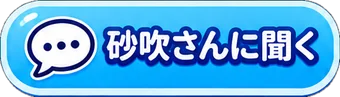
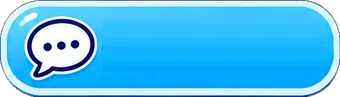
砂吹さん→潮見さん、ハーモニカ→オカリナ(音・見た目・セリフ・ボタン画像の名前)
Claude-Session: https://claude.ai/code/session_01SLSQhv5yW68EmdsJ622XGc

Changed region(s): [[0.2941, 0.2474, 0.9412, 0.7113]]

diff --git a/town3d/src/apps/fishing/app.js b/town3d/src/apps/fishing/app.js
@@ -10,8 +10,8 @@ import a_p_mode from './art/p_mode.webp';
 import a_p_fx from './art/p_fx.webp';
 import a_p_help from './art/p_help.webp';
 const ART = { b_en: a_b_en, b_free: a_b_free, b_vs: a_b_vs, b_dex: a_b_dex, b_ask: a_b_ask, b_shop: a_b_shop, p_mode: a_p_mode, p_fx: a_p_fx, p_help: a_p_help };
-// 釣り(砂吹さんの池)。町のアプリ(mount(el, ctx) → {unmount})。
-//   のんびり釣り / 釣り勝負(2画面:砂吹さん・友だちの挑戦状・前回の自分) / 図鑑 / 道具屋
+// 釣り(潮見さんの池)。町のアプリ(mount(el, ctx) → {unmount})。
+//   のんびり釣り / 釣り勝負(2画面:潮見さん・友だちの挑戦状・前回の自分) / 図鑑 / 道具屋
 import { confirmPay } from '../../ui/pay.js';
 import { weather, wxStrip } from '../../game/weather.js';
 import { social } from '../../game/social.js';
@@ -100,7 +100,10 @@ const CSS = `
 .fz .mwx{flex:none;display:flex;align-items:center;gap:6px;background:rgba(255,255,255,.9);border-radius:999px;padding:5px 12px;box-shadow:0 2px 6px #0002;font-size:13px;font-weight:900;color:#3a4a7a}.fz .mwx small{font-size:12px;font-weight:700;color:#6d6a8c}
 .fz .mwal{flex:none;display:flex;flex-direction:row;gap:6px;align-items:center}.fz .mwal span{background:rgba(255,255,255,.9);border-radius:999px;padding:3px 9px;font-size:12px;font-weight:900;color:#3a4a7a;box-shadow:0 2px 6px #0002;white-space:nowrap}
 .fz .mgrid{width:min(100%,560px);display:grid;grid-template-columns:1fr 1fr;gap:8px}
-.fz .ib{border:0;background:none;padding:0;cursor:pointer;display:block;-webkit-tap-highlight-color:transparent}.fz .ib img{display:block;width:100%;height:auto;pointer-events:none}.fz .ib:active{transform:scale(.97)}
+.fz .ib{border:0;background:none;padding:0;cursor:pointer;display:block;position:relative;container-type:inline-size;-webkit-tap-highlight-color:transparent}.fz .ib img{display:block;width:100%;height:auto;pointer-events:none}.fz .ib:active{transform:scale(.97)}
+.fz .ib .tx{position:absolute;pointer-events:none;white-space:nowrap;font-weight:900}
+.fz .ib .txa{left:30%;top:50%;transform:translateY(-50%);font-size:9.2cqw;color:#fff;-webkit-text-stroke:5px #1d2f7a;paint-order:stroke fill;letter-spacing:.02em}
+.fz .ib .txv{left:0;right:0;bottom:9%;text-align:center;font-size:6.6cqw;color:#6a3b10;-webkit-text-stroke:3px #fff3c2;paint-order:stroke fill}
 .fz .mpills{display:grid;grid-template-columns:repeat(3,1fr);gap:6px;width:min(100%,560px)}
 .fz .pl{border:0;padding:0;cursor:pointer;aspect-ratio:220/77;background:center/100% 100% no-repeat;position:relative;-webkit-tap-highlight-color:transparent}.fz .pl span{position:absolute;left:36%;right:6%;top:50%;transform:translateY(-50%);font-size:11px;font-weight:900;color:#3a4a7a;white-space:nowrap}.fz .pl:active{transform:scale(.97)}
 .fz .mb{width:min(300px,86%);display:flex;align-items:center;gap:10px;justify-content:flex-start;font-size:17px;padding:14px 18px;border-radius:18px}
@@ -160,7 +163,7 @@ export const fishingApp = {
     const wxRefresh = () => { baseCond.luck = social.luckToday(); if (P.rain == null) baseCond.rain = weather.isRain(); const d = new Date(); if (P.hour == null) baseCond.hour = d.getHours() + d.getMinutes() / 60; };   // 開いたまま天気・時間が変わっても、次の画面から反映
     const sfx = createSfx(ctx.audio && ctx.audio.sfx != null ? ctx.audio.sfx : 0.7);
     const root = document.createElement('div'); root.className = 'fz'; el.appendChild(root);
-    ctx.setTitle('砂吹さんの池');
+    ctx.setTitle('潮見さんの池');
 
     // ---- 保存 ----
     const own = Object.assign({ rod: ['bamboo'], reel: ['basic'], line: ['nylon'], bait: ['worm'], eye: ['none'] }, st.get('own') || {}); own.hook = ['s', 'm', 'l']; if (!own.eye) own.eye = ['none'];
@@ -209,7 +212,7 @@ export const fishingApp = {
 
     // ================= メニュー =================
     function menu() {
-      clear(); screen = 'menu'; ctx.setTitle('砂吹さんの釣り堀'); head(); wxRefresh();
+      clear(); screen = 'menu'; ctx.setTitle('潮見さんの釣り堀'); head(); wxRefresh();
       const cv = document.createElement('canvas'); cv.style.cssText = 'top:0;height:100%'; root.appendChild(cv);
       const view = createView(cv, baseCond); view.resize();
       const ro = new ResizeObserver(() => view.resize()); ro.observe(cv); cleanup.push(() => ro.disconnect());
@@ -224,13 +227,13 @@ export const fishingApp = {
             <div class="mwal"><span>🪙 <b data-bind="coins">${ctx.wallet.get().toLocaleString('ja-JP')}</b></span>${ctx.gems ? `<span>💎 <b data-bind="gems">${ctx.gems.get().toLocaleString('ja-JP')}</b></span>` : ''}</div>
           </div>
         </div>
-        <div class="say3"><img class="sp" src="${portrait('suna') || ''}" alt="砂吹さん"><div class="say">砂吹さん「${esc(pickSay())}」</div></div>
+        <div class="say3"><img class="sp" src="${portrait('suna') || ''}" alt="潮見さん"><div class="say">潮見さん「${esc(pickSay())}」</div></div>
         <div class="mgrid">
           <button class="ib" data-m="en" aria-label="英語の釣り堀"><img src="${ART.b_en}" alt=""></button>
           <button class="ib" data-m="free" aria-label="のんびり釣る"><img src="${ART.b_free}" alt=""></button>
-          <button class="ib" data-m="vs" aria-label="釣り勝負"><img src="${ART.b_vs}" alt=""></button>
+          <button class="ib" data-m="vs" aria-label="釣り勝負"><img src="${ART.b_vs}" alt=""><span class="tx txv">潮見さん・友だちと対戦</span></button>
           <button class="ib" data-m="dex" aria-label="アクアリウム"><img src="${ART.b_dex}" alt=""></button>
-          <button class="ib" data-m="ask" aria-label="砂吹さんに聞く"><img src="${ART.b_ask}" alt=""></button>
+          <button class="ib" data-m="ask" aria-label="潮見さんに聞く"><img src="${ART.b_ask}" alt=""><span class="tx txa">潮見さんに聞く</span></button>
           <button class="ib" data-m="shop" aria-label="道具屋"><img src="${ART.b_shop}" alt=""></button>
         </div>
         <div class="mpills">
@@ -528,7 +531,7 @@ export const fishingApp = {
         if (!sp) return;
         bubble(`${sp.name}${sp.kind === 'fish' ? ' ' + d.size + 'cm' : ''}!` + (vs.bot ? ' ' + (sp.r >= 3 ? SUNA_SAY.big[0] : SUNA_SAY.catch[Math.floor(Math.random() * 4)]) : ''));
       }
-      function bubble(text) { bubEl?.remove(); bubEl = document.createElement('div'); bubEl.className = 'bub'; bubEl.textContent = (vs.bot ? '砂吹さん: ' : vs.name + ': ') + text; root.appendChild(bubEl); const b = bubEl; setTimeout(() => { if (bubEl === b) { b.remove(); bubEl = null; } }, 2200); }
+      function bubble(text) { bubEl?.remove(); bubEl = document.createElement('div'); bubEl.className = 'bub'; bubEl.textContent = (vs.bot ? '潮見さん: ' : vs.name + ': ') + text; root.appendChild(bubEl); const b = bubEl; setTimeout(() => { if (bubEl === b) { b.remove(); bubEl = null; } }, 2200); }
 
       // ---- 演出 ----
       let hitStop = 0, hitBig = false, leap = null, vign = null;
@@ -581,7 +584,7 @@ export const fishingApp = {
           <div style="font-family:Georgia,serif;font-style:italic;color:#8d7f9e;font-size:13px">${esc(sp.en)}</div>
           ${sp.kind === 'fish' ? `<div style="font-size:24px;font-weight:900">${d.size}<small style="font-size:13px">cm</small>${info.best && !info.isNew ? ' <span style="font-size:12px;color:#e0556b">記録更新!</span>' : ''}</div>` : ''}
           ${info.extra}${info.wanted ? `<div style="font-weight:900;font-size:13px">🪙 +${info.coins}${info.coins < info.wanted ? ' <small style="color:#8d7f9e">(きょうの上限)</small>' : ''}</div>` : ''}`;
-        const r = await showScreen({ actors: [{ look: ctx.player?.look, pose: 'auto', sp, size: d.size }], bg: cv, infoHtml: head, sayText: `砂吹さん「${esc(sp.say || 'Nice!')}」`, caption: [`${sp.name}${sp.kind === 'fish' ? ' ' + d.size + 'cm' : ''}`, `ほしみや池 ${new Date().toLocaleDateString()}`], confettiOn: info.isNew || info.best || sp.r >= 4, buttons: [['つづける', '', () => closeCard()]] });
+        const r = await showScreen({ actors: [{ look: ctx.player?.look, pose: 'auto', sp, size: d.size }], bg: cv, infoHtml: head, sayText: `潮見さん「${esc(sp.say || 'Nice!')}」`, caption: [`${sp.name}${sp.kind === 'fish' ? ' ' + d.size + 'cm' : ''}`, `ほしみや池 ${new Date().toLocaleDateString()}`], confettiOn: info.isNew || info.best || sp.r >= 4, buttons: [['つづける', '', () => closeCard()]] });
         if (!r) { card = null; showCard(d, info); } else card = { remove: r.close };
       }
       function showCard(d, info) {
@@ -593,12 +596,12 @@ export const fishingApp = {
           <div class="sc" style="text-align:center;padding-top:0"><div class="art" style="margin:4px auto;width:260px;max-width:100%"></div>
           ${sp.kind === 'fish' ? `<div style="font-size:28px;font-weight:900">${d.size}<small style="font-size:14px">cm</small>${info.best && !info.isNew ? ' <span style="font-size:13px;color:#e0556b">記録更新!</span>' : ''}</div><div style="font-size:12px;color:#8d7f9e">自己ベスト ${info.r.best}cm ・ ${info.r.n}匹目</div>` : ''}
           ${info.extra}
-          <div class="say" style="margin:10px auto 0">砂吹さん「${esc(sp.say || 'Nice!')}」</div>
+          <div class="say" style="margin:10px auto 0">潮見さん「${esc(sp.say || 'Nice!')}」</div>
           ${info.wanted ? `<div style="margin-top:8px;font-weight:900">🪙 +${info.coins}${info.coins < info.wanted ? ' <small style="color:#8d7f9e">(きょうの上限)</small>' : ''}</div>` : ''}
           </div><div style="padding:8px 16px 18px;text-align:center;display:flex;gap:8px;justify-content:center;flex-wrap:wrap">${en && sp.kind === 'fish' ? `<button class="btn sub" data-k ${EN.keepRoom() ? '' : 'disabled'}>🐠 ${EN.tankRoom() ? '水槽に入れる' : EN.keepRoom() ? '図鑑の枠に入れる' : '水槽も枠もいっぱい'}</button>` : ''}<button class="btn" data-x>つづける</button></div>`, true);
         card.querySelector('.art').appendChild(a); a.style.cssText = 'width:100%;height:auto;position:static';
         card.querySelector('[data-x]').onclick = closeCard;
-        const kb = card.querySelector('[data-k]'); if (kb) kb.onclick = () => { const r = EN.keepFish(sp, d.size); if (!r) return; sfx.play('splash'); closeCard(); toast(r === 'first' ? '🐠 砂吹さんが水槽をくれた!<br><small style="font-size:12px">家の持ち物にも入ったよ。えさは英語で作る</small>' : r === 'box' ? '📖 図鑑の枠に入れた!' : '🐠 水槽に入れた!', 1800); };
+        const kb = card.querySelector('[data-k]'); if (kb) kb.onclick = () => { const r = EN.keepFish(sp, d.size); if (!r) return; sfx.play('splash'); closeCard(); toast(r === 'first' ? '🐠 潮見さんが水槽をくれた!<br><small style="font-size:12px">家の持ち物にも入ったよ。えさは英語で作る</small>' : r === 'box' ? '📖 図鑑の枠に入れた!' : '🐠 水槽に入れた!', 1800); };
         if (info.isNew || info.best || sp.r >= 4) confetti(card);
       }
       function showLost(d) { toast(LOST_JP[d.reason] + `<br><small style="font-size:13px">${BYID[d.id] && BYID[d.id].r >= 3 ? 'おしい! 大物だった…' : ''}</small>`, 1500); setTimeout(() => { if (E.S.ph === 'lost') E.ack(); }, 1400); }
@@ -669,7 +672,7 @@ export const fishingApp = {
           }
           const R = RULES[vs.rule], ms = scoreOf(E.S.score, vs.rule), os = scoreOf(bot ? oppE.S.score : oppScore, vs.rule);
           const oph = bot ? oppE.S.ph : (replayAt(vs.ghost, t) || {}).ph;
-          vsBar.querySelector('.on').textContent = `${vs.bot ? '砂吹さん' : vs.name} ${os}${R.unit}${oph === 'fight' ? ' 🎣ファイト中!' : ''}`;
+          vsBar.querySelector('.on').textContent = `${vs.bot ? '潮見さん' : vs.name} ${os}${R.unit}${oph === 'fight' ? ' 🎣ファイト中!' : ''}`;
           vsBar.querySelector('.me').textContent = `あなた ${ms}${R.unit}`;
           vsBar.querySelector('.tm').textContent = countT > 0 ? fmtT(vs.dur) : fmtT(vs.dur - startT);
         } else $('[data-b="info"]').textContent = `🐟${stats.today}`;
@@ -772,7 +775,7 @@ export const fishingApp = {
       showScreen({
         actors: [{ look: ctx.player?.look, pose: 'auto', sp: top.sp, size: top.size }], bg: null,
         infoHtml: `<div style="font-size:22px;font-weight:900">🎉 きょうの成果</div><div style="font-size:13px;font-weight:800">${list}</div>`,
-        sayText: '砂吹さん「What a great day!」',
+        sayText: '潮見さん「What a great day!」',
         caption: [`${top.sp.name} ${top.size}cm`, `ほしみや池 ${new Date().toLocaleDateString()}`], confettiOn: true,
         buttons: [['帰る', '', done]],
       }).then(r => { if (!r) done(); });
@@ -798,7 +801,7 @@ export const fishingApp = {
       return { el, close };
     }
 
-    // ================= 砂吹さんに聞く =================
+    // ================= 潮見さんに聞く =================
     let onEqChange = null;
     function ask(tab) {
       askScreen({ sheet, dex, cond: baseCond, eq, own, st, sfx, skill, tab, onSet: (c, bb) => {
@@ -904,8 +907,8 @@ export const fishingApp = {
           <div class="lbl">モード(ふたりとも同じ)</div><div class="seg"><button class="tab ${mode === 'real' ? 'on' : ''}" data-mo="real">🔵 ほんかく</button><button class="tab ${mode === 'easy' ? 'on' : ''}" data-mo="easy">🟢 かんたん</button></div>
           <div class="lbl">演出</div><div class="seg"><button class="tab ${fx === 'high' ? 'on' : ''}" data-fx="high">🎆 派手</button><button class="tab ${fx === 'calm' ? 'on' : ''}" data-fx="calm">🍵 おとなしめ</button></div>
           <div class="lbl">あいて</div><div class="seg" style="flex-direction:column">
-            <button class="tab ${opp === 'easy' ? 'on' : ''}" data-o="easy">🧢 砂吹さん(のんびり)</button>
-            <button class="tab ${opp === 'hard' ? 'on' : ''}" data-o="hard">🔥 砂吹さん(ほんき)</button>
+            <button class="tab ${opp === 'easy' ? 'on' : ''}" data-o="easy">🧢 潮見さん(のんびり)</button>
+            <button class="tab ${opp === 'hard' ? 'on' : ''}" data-o="hard">🔥 潮見さん(ほんき)</button>
             <button class="tab ${opp === 'code' ? 'on' : ''}" data-o="code">✉ 友だちの挑戦状をうける</button>
             ${ghost ? `<button class="tab ${opp === 'self' ? 'on' : ''}" data-o="self">👤 前回の自分(${RULES[ghost.r].name}・${ghost.du / 60}分)</button>` : ''}
           </div>
@@ -945,11 +948,11 @@ export const fishingApp = {
       const mb = best(catches), ob = best(oppC), oppLook = vs.bot ? 'suna' : vs.name === '前回の自分' ? ctx.player?.look : 'ren';
       const actor = (look, b, win) => ({ look, pose: win === false ? 'sad' : 'auto', sp: b ? BYID[b.id] : null, size: b ? b.size : 0 });
       const head = res === 'win' ? '🏆 かち!' : res === 'lose' ? 'まけ…' : 'ひきわけ';
-      const R = RULES[vs.rule], oname = vs.bot ? '砂吹さん' : vs.name;
+      const R = RULES[vs.rule], oname = vs.bot ? '潮見さん' : vs.name;
       const r = await showScreen({
         actors: [actor(ctx.player?.look, mb, res === 'lose' ? false : true), actor(oppLook, ob, res === 'win' ? false : true)], bg: null,
         infoHtml: `<div style="font-size:24px;font-weight:900">${head}</div><div style="font-weight:900">あなた ${o.me}${R.unit}　vs　${esc(oname)} ${o.op}${R.unit}</div><div style="font-size:12px;color:#8d7f9e">${R.name}・${vs.dur / 60}分 ${MODE_BADGE(vs.easy ? 'easy' : 'real')}</div>`,
-        sayText: vs.bot ? `砂吹さん「${res === 'win' ? 'You got me. Well done.' : res === 'lose' ? 'Better luck next time.' : 'A tie! Good game.'}」` : '',
+        sayText: vs.bot ? `潮見さん「${res === 'win' ? 'You got me. Well done.' : res === 'lose' ? 'Better luck next time.' : 'A tie! Good game.'}」` : '',
         caption: [`釣り勝負 ${head}`, `${R.name} ${o.me}${R.unit} vs ${o.op}${R.unit}  ほしみや池`], confettiOn: res === 'win',
         buttons: [['結果を見る', '', () => vsResult(o)]],
       });
@@ -962,11 +965,11 @@ export const fishingApp = {
       const list = catches.length ? catches.map(c => { const sp = BYID[c.id]; return `${sp.emoji || '🐟'} ${esc(sp.name)}${sp.kind === 'fish' ? ` ${c.size}cm` : ''} <small style="color:#8d7f9e">${c.pts}pt</small>`; }).join('<br>') : '<span style="color:#8d7f9e">なし</span>';
       const s = sheet(`<div class="ph" style="justify-content:center"><h2 style="font-size:28px">${head}</h2></div>
         <div class="sc" style="text-align:center">
-          <div style="display:flex;justify-content:center;gap:16px;align-items:center;font-weight:900"><div>あなた<br><span style="font-size:32px">${me}</span>${R.unit}</div><div style="font-size:20px">vs</div><div>${vs.bot ? '砂吹さん' : esc(vs.name)}<br><span style="font-size:32px">${op}</span>${R.unit}</div></div>
+          <div style="display:flex;justify-content:center;gap:16px;align-items:center;font-weight:900"><div>あなた<br><span style="font-size:32px">${me}</span>${R.unit}</div><div style="font-size:20px">vs</div><div>${vs.bot ? '潮見さん' : esc(vs.name)}<br><span style="font-size:32px">${op}</span>${R.unit}</div></div>
           <p style="font-size:12px;color:#8d7f9e">${R.name}・${vs.dur / 60}分</p>
           <div style="background:#fff;border-radius:12px;padding:8px;text-align:left;font-size:13px;line-height:1.7">${list}</div>
           ${coins ? `<p style="font-weight:900">🪙 +${coins}</p>` : ''}
-          ${vs.bot ? `<div class="say" style="margin:6px auto">砂吹さん「${res === 'win' ? 'You got me. Well done.' : res === 'lose' ? 'Better luck next time.' : 'A tie! Good game.'}」</div>` : ''}
+          ${vs.bot ? `<div class="say" style="margin:6px auto">潮見さん「${res === 'win' ? 'You got me. Well done.' : res === 'lose' ? 'Better luck next time.' : 'A tie! Good game.'}」</div>` : ''}
           <div class="code" hidden><p style="font-size:12px;margin:6px 0">この文字をぜんぶコピーして友だちに送ってね(友だちは「釣り勝負 → 友だちの挑戦状をうける」にはりつけ)</p><textarea rows="4" readonly></textarea><div style="display:flex;gap:8px;justify-content:center;margin-top:6px"><button class="btn sub" data-copy>コピー</button>${navigator.share ? '<button class="btn sub" data-share>送る</button>' : ''}</div></div>
         </div>
         <div style="display:flex;gap:8px;padding:8px 12px 16px;justify-content:center;flex-wrap:wrap"><button class="btn sub" data-m>メニュー</button><button class="btn gold" data-c>✉ 挑戦状をつくる</button><button class="btn" data-a>もういちど</button></div>`, true);

diff --git a/town3d/src/main.js b/town3d/src/main.js
@@ -265,7 +265,7 @@ export function mount(container, opt = {}) {
     if (lunaOut) text = ['たまには外の空気を吸わないとね。星も、昼は休んでいるのよ。', 'あら、こんなところで会うなんて。…これも星の導きかしら。', '夕方には館にもどるわ。占いはそれからね。'][Math.floor(Math.random() * 3)];
     if (r.def.companion && r.follow) text = (r.def.id === 'sora' ? ['ん? どうした?', 'なに?', 'おう、どうした?'] : ['なになに?', 'どうしたの?', 'ん? よんだ?'])[Math.floor(Math.random() * 3)];
     soc.onTalk(r);
-    const choices = (r.def.menu || []).filter(m => (!m.season || m.season === seasons.season) && soc.menuOk(m) && !(lunaOut && m.app === 'fortune')).map(m => ({ label: m.act === 'follow' && r.follow ? 'ここでバイバイ' : m.label, fn: () => { if (m.act) return doAct(r, m); openApp(m.app, m.params); if (m.app === 'fishing') { const off = bus.on('app:close', () => { off(); setTimeout(() => { if (!appHost.current && !hud.busy && started) talkTo(r); }, 450); }); } } }));   // 釣りから出たら、砂吹さんとの会話にもどる
+    const choices = (r.def.menu || []).filter(m => (!m.season || m.season === seasons.season) && soc.menuOk(m) && !(lunaOut && m.app === 'fortune')).map(m => ({ label: m.act === 'follow' && r.follow ? 'ここでバイバイ' : m.label, fn: () => { if (m.act) return doAct(r, m); openApp(m.app, m.params); if (m.app === 'fishing') { const off = bus.on('app:close', () => { off(); setTimeout(() => { if (!appHost.current && !hud.busy && started) talkTo(r); }, 450); }); } } }));   // 釣りから出たら、潮見さんとの会話にもどる
     if (r.def.id === 'sora' && r.follow) choices.unshift({ label: ai.ready ? 'おしゃべりする' : 'AIでおしゃべり(設定)', fn: () => { if (ai.ready) freeChat(r, text); else openAiSetup({ hud, ai, onDone: () => freeChat(r, text) }); } });
     choices.push(...soc.choices(r));
     if (r.def.id !== 'sora') choices.push({ label: ai.ready ? 'おしゃべりする' : 'AIでおしゃべり(設定)', fn: () => { r.talking = true; talkingTo = r; if (ai.ready) startChat(r, text); else openAiSetup({ hud, ai, onDone: () => startChat(r, text) }); } });   // キー設定の画面を出している間も、住人はその場にいる
@@ -383,7 +383,7 @@ export function mount(container, opt = {}) {
       }
     });
   }
-  // メニューの「act」:大喜利・格言・ハーモニカ(アプリを開かない、住人ならではのあそび)
+  // メニューの「act」:大喜利・格言・オカリナ(アプリを開かない、住人ならではのあそび)
   function doAct(r, m) {
     if (m.act === 'consult' || m.act === 'soranote') { r.talking = true; talkingTo = r; input.clear(); soraNote(r); return; }
     if (m.act === 'follow') { hanaFollow(r, !r.follow); return; }
@@ -503,7 +503,7 @@ export function mount(container, opt = {}) {
   const spotOf = id => city.interact.find(i => i.app === id || i.id === id);
   // where:連れて行く場所 / go:着いたらすること
   const PLAYSPOTS = [
-    { k: 'fishing', n: '釣り', season: 'summer', where: () => ({ x: 46, z: 21 }), go: () => openApp('fishing', {}), ask: '最近、釣りしてないね。砂吹さんの池、行ってみる?' },
+    { k: 'fishing', n: '釣り', season: 'summer', where: () => ({ x: 46, z: 21 }), go: () => openApp('fishing', {}), ask: '最近、釣りしてないね。潮見さんの池、行ってみる?' },
     { k: 'golf', n: 'ミニゴルフ', season: 'spring', where: () => spotOf('board'), go: () => sport.start('golf'), ask: '今日のゴルフのコース、もう見た? やりに行こうよ!' },
     { k: 'frisbee', n: 'フリスビー', season: 'autumn', where: () => spotOf('board'), go: () => sport.start('frisbee'), ask: 'ねえ、フリスビーしに行かない? 掲示板にコースが出てるよ' },
     { k: 'chunkcards', n: 'カード', where: () => spotOf('chunkcards'), go: () => openApp('chunkcards', {}), ask: 'カフェでカード勝負、最近してないよね。行ってみる?' },
@@ -559,15 +559,15 @@ export function mount(container, opt = {}) {
   }
   const HANA_HINTS = {
     spring: ['春と秋は、掲示板にミニゴルフのコースが貼り出されるんだって。毎日ちがうコースなの!'],
-    summer: ['夏は砂吹さんの池で釣りができるよ。夕方と朝は、よく釣れるんだって!', '魚影が見えても、真上に落とすと逃げちゃうんだって。少し先に落とすといいらしいよ'],
+    summer: ['夏は潮見さんの池で釣りができるよ。夕方と朝は、よく釣れるんだって!', '魚影が見えても、真上に落とすと逃げちゃうんだって。少し先に落とすといいらしいよ'],
     autumn: ['秋は掲示板からフリスビーに出られるよ。風を読むのがコツなんだって'],
     winter: ['雪玉は長押しすると大きくなるよ! 雪だるまも作れるの', '広場で雪合戦できるって知ってた?'],
     any: ['そら君に聞くと、英語の使い方をノートにまとめてくれるよ', '家のテレビで、チャンクボックスのゲームが遊べるんだよ', 'カフェでミイさんとカード勝負できるよ。ミイさん、ああ見えて強いの', '会話の英語をタップすると、ことばノートに入れられるんだって', '神社のおみくじ、毎日ひけるよ'],
   };
-  const SORA_HINTS = { any: ['この町、歩いてるだけで楽しいよな', '腹へったな…カフェ寄ってく?', 'ゲーセンのぷにチャンク、けっこうハマるんだよ', '夕方の空、いい色じゃん'], winter: ['雪合戦なら負けないよ?'], summer: ['夏は池で釣りだよな。砂吹さん、たまに大物あげてる'] };
+  const SORA_HINTS = { any: ['この町、歩いてるだけで楽しいよな', '腹へったな…カフェ寄ってく?', 'ゲーセンのぷにチャンク、けっこうハマるんだよ', '夕方の空、いい色じゃん'], winter: ['雪合戦なら負けないよ?'], summer: ['夏は池で釣りだよな。潮見さん、たまに大物あげてる'] };
   const PLACE_LINES = {
     hana: [['広場', 'ここ、待ち合わせによく使うんだ〜'], ['カフェ', 'いいにおい…何か飲みたくなっちゃう'], ['公園', 'ここのベンチ、すわると落ちつくよね'], ['神社', 'しーん…ってしてて好きなんだ'], ['図書館', 'しずかにしなきゃね(小声)'], ['学校', 'なつかしい感じするね'], ['ゲームセンター', 'ちょっと遊んでいかない?'], ['ショップ', 'かわいいの売ってるかな?'], ['池', 'アヒルいるかな〜'], ['家', 'ここがあなたの家? いいなぁ']],
-    sora: [['広場', '噴水の音、落ちつくよな'], ['カフェ', 'ここのケーキ、うまいんだよ'], ['公園', 'ベンチでぼーっとするの、好きなんだ'], ['神社', 'おみくじ、大吉出たことある?'], ['図書館', 'ここ、よく来るんだ'], ['学校', '懐かしいなぁ'], ['ゲームセンター', '一回だけ遊んでいく?'], ['池', '砂吹さん、今日も釣ってるかな']],
+    sora: [['広場', '噴水の音、落ちつくよな'], ['カフェ', 'ここのケーキ、うまいんだよ'], ['公園', 'ベンチでぼーっとするの、好きなんだ'], ['神社', 'おみくじ、大吉出たことある?'], ['図書館', 'ここ、よく来るんだ'], ['学校', '懐かしいなぁ'], ['ゲームセンター', '一回だけ遊んでいく?'], ['池', '潮見さん、今日も釣ってるかな']],
   };
   // 手をつなぐ:プレイヤーの左にならぶ。ときどき少しおくれたり、前へ引っぱったりする(手ははなさない)
   const holdM = new THREE.Vector3();
@@ -674,7 +674,7 @@ export function mount(container, opt = {}) {
     });
   }
   // ---- 誕生日 ----
-  //   その日(この端末の日付で、登録した月日):住人がみんな1回ずつ「おめでとう」/砂吹さんがハーモニカ/そら君が花束/はなちゃんがピアノ
+  //   その日(この端末の日付で、登録した月日):住人がみんな1回ずつ「おめでとう」/潮見さんがオカリナ/そら君が花束/はなちゃんがピアノ
   //   夜:とくべつな花火+記念写真(アルバムの特別枠・無料)。その月は家のゲーム機が全部無料。翌月はサブスク半額のお知らせ
   let bdayTest = /[?&]bday=1/.test(location.search) ? 'day' : '';
   const bdayMD = () => { const b = settings.birth; if (!b) return null; const [, m, d] = b.split('-').map(Number); return m && d ? { m, d } : null; };
@@ -709,7 +709,7 @@ export function mount(container, opt = {}) {
         { label: 'あとでね', fn: () => { s.hanaT = Date.now() + 120000; bsave(s); } }] });
       bdayCool = 3; return;
     }
-    // 砂吹さん:ハーモニカ
+    // 潮見さん:オカリナ
     const su = R('suna'); if (su && !s.suna && near(su)) { s.suna = 1; bsave(s); audio.unlock(); const t = audio.play('harmonica', 'bday') || { sec: 10 }; su.harpT = t.sec; hud.say('npc:suna', '♪ Happy Birthday ♪', Math.min(12, t.sec)); setTimeout(() => hud.say('npc:suna', `おめでとさん、${nm}。いい一年をな`, 4), t.sec * 1000); bdayCool = t.sec; return; }
     // ほかの住人:1回ずつ「おめでとう」
     for (const r of residents.list) {

diff --git a/town3d/src/core/audio.js b/town3d/src/core/audio.js
@@ -17,17 +17,21 @@ export function createAudio() {
     g.gain.setValueAtTime(0, t); g.gain.linearRampToValueAtTime(gain * vol.sfx, t + 0.01); g.gain.exponentialRampToValueAtTime(0.0001, t + dur);
     o.connect(g).connect(master); o.start(t); o.stop(t + dur + 0.02);
   }
-  // ハーモニカのような、のばす音(ゆれ=ビブラートつき)
+  // オカリナのような、まるくてやさしい音(ほぼ正弦波＋かすかな息の音。ゆれは、音がのびてから少しだけかかる)
   function reed(f, dur, delay = 0) {
     const a = ctx(); if (!a || vol.sfx <= 0) return;
-    const t = a.currentTime + delay, o = a.createOscillator(), o2 = a.createOscillator(), g = a.createGain(), lp = a.createBiquadFilter(), lfo = a.createOscillator(), lg = a.createGain();
-    o.type = 'sawtooth'; o2.type = 'triangle'; o.frequency.value = f; o2.frequency.value = f * 1.005;
-    lp.type = 'lowpass'; lp.frequency.value = 2200;
-    lfo.frequency.value = 5.2; lg.gain.value = f * 0.007; lfo.connect(lg); lg.connect(o.frequency); lg.connect(o2.frequency);
-    const v = 0.05 * vol.sfx;
-    g.gain.setValueAtTime(0, t); g.gain.linearRampToValueAtTime(v, t + 0.07); g.gain.setValueAtTime(v * 0.85, Math.max(t + 0.08, t + dur - 0.12)); g.gain.linearRampToValueAtTime(0, t + dur);
-    o.connect(lp); o2.connect(lp); lp.connect(g).connect(master);
+    const t = a.currentTime + delay, o = a.createOscillator(), o2 = a.createOscillator(), g2 = a.createGain(), g = a.createGain(), lp = a.createBiquadFilter(), lfo = a.createOscillator(), lg = a.createGain();
+    o.type = 'sine'; o2.type = 'sine'; o.frequency.value = f; o2.frequency.value = f * 2; g2.gain.value = 0.10;
+    lp.type = 'lowpass'; lp.frequency.value = 2600;
+    lfo.frequency.value = 4.4; lg.gain.setValueAtTime(0, t); lg.gain.linearRampToValueAtTime(f * 0.0035, t + Math.min(0.35, dur * 0.6)); lfo.connect(lg); lg.connect(o.frequency); lg.connect(o2.frequency);
+    const v = 0.085 * vol.sfx;
+    g.gain.setValueAtTime(0, t); g.gain.linearRampToValueAtTime(v, t + 0.06); g.gain.setValueAtTime(v * 0.9, Math.max(t + 0.07, t + dur - 0.14)); g.gain.linearRampToValueAtTime(0, t + dur);
+    o.connect(lp); o2.connect(g2).connect(lp); lp.connect(g).connect(master);
     [o, o2, lfo].forEach(x => { x.start(t); x.stop(t + dur + 0.05); });
+    // 吹きはじめの、かすかな息の音
+    const n = Math.floor(a.sampleRate * 0.12), buf = a.createBuffer(1, n, a.sampleRate), d = buf.getChannelData(0); for (let i = 0; i < n; i++) d[i] = (Math.random() * 2 - 1) * (1 - i / n);
+    const ns = a.createBufferSource(), bp = a.createBiquadFilter(), ng = a.createGain(); ns.buffer = buf; bp.type = 'bandpass'; bp.frequency.value = Math.min(6000, f * 2.5); bp.Q.value = 1.2; ng.gain.value = 0.35 * v;
+    ns.connect(bp).connect(ng).connect(master); ns.start(t);
   }
   // ピアノのような音(打ってすぐ減る。倍音を少し)
   function piano(f, dur, delay = 0, v = 1) {
@@ -38,7 +42,7 @@ export function createAudio() {
     lp.connect(g).connect(master);
     [[1, 'triangle', 1], [2, 'sine', 0.35], [3, 'sine', 0.12]].forEach(([m, ty, k]) => { const o = a.createOscillator(), og = a.createGain(); o.type = ty; o.frequency.value = f * m; og.gain.value = k; o.connect(og).connect(lp); o.start(t); o.stop(t + len + 0.05); });
   }
-  // ハーモニカのオリジナル曲(ペンタトニック)。[音の高さHz, 長さ(拍)] 0 は休み。朝・昼・夕・晩と、たまに吹くとくべつな曲の5曲
+  // オカリナのオリジナル曲(ペンタトニック)。[音の高さHz, 長さ(拍)] 0 は休み。朝・昼・夕・晩と、たまに吹くとくべつな曲の5曲
   const TUNES = {
     morning: { name: '朝のうた', beat: 0.30, notes: [[784, 1], [880, 1], [1047, 2], [880, 1], [1047, 1], [1175, 2], [1047, 1], [880, 1], [784, 2], [659, 1], [784, 1], [880, 3], [0, 1], [1047, 1], [1175, 1], [1319, 2], [1175, 1], [1047, 1], [880, 2], [784, 1], [880, 1], [1047, 4]] },
     noon: { name: 'ひるさがりのうた', beat: 0.34, notes: [[659, 1.5], [784, 0.5], [880, 2], [784, 1], [659, 1], [587, 2], [523, 1], [587, 1], [659, 3], [0, 1], [784, 1.5], [880, 0.5], [1047, 2], [880, 1], [784, 1], [659, 2], [587, 1], [523, 1], [587, 4]] },

diff --git a/town3d/src/game/npc.js b/town3d/src/game/npc.js
@@ -107,14 +107,14 @@ export const RESIDENTS = [
     menu: [{ label: '格言をひとつ聞く', act: 'quote' }],
   },
   {
-    // 砂吹さん:さすらいの旅人。池のほとりで釣りをしている。頼むとハーモニカを吹いてくれる
-    id: 'suna', tips: ["「Any luck?」は釣りの定番の声かけ。『釣れた?』ってことさ", "「Nothing's biting.」は『ぜんぜん食いつかない』。釣れない日のぼやきだな", "「Take it easy.」は『のんびりいこう』。ぼくの生き方みたいなものさ", "「Go with the flow.」は『流れにまかせて』。川と同じだね", "「catch of the day」は『今日の釣果』。とれたら自慢できる"], yomi: 'すなぶきさん', name: '砂吹さん', role: 'さすらいの旅人',
-    persona: '自由なさすらいの旅人。ひょうひょうとしていて、口数は少なめでおだやか。「〜さ」「〜だな」と話す。持ち物はハーモニカと釣り竿だけ。池でアヒルをながめながら釣りをするのが好きで、釣れなくても気にしない。',
+    // 潮見さん:さすらいの旅人。池のほとりで釣りをしている。頼むとオカリナを吹いてくれる
+    id: 'suna', tips: ["「Any luck?」は釣りの定番の声かけ。『釣れた?』ってことさ", "「Nothing's biting.」は『ぜんぜん食いつかない』。釣れない日のぼやきだな", "「Take it easy.」は『のんびりいこう』。ぼくの生き方みたいなものさ", "「Go with the flow.」は『流れにまかせて』。川と同じだね", "「catch of the day」は『今日の釣果』。とれたら自慢できる"], yomi: 'すなぶきさん', name: '潮見さん', role: 'さすらいの旅人',
+    persona: '自由なさすらいの旅人。ひょうひょうとしていて、口数は少なめでおだやか。「〜さ」「〜だな」と話す。持ち物はオカリナと釣り竿だけ。池でアヒルをながめながら釣りをするのが好きで、釣れなくても気にしない。',
     look: { skin: 0xf2c9ac, hair: 0x8a5a44, style: 'short', top: 0x7f9a52, bottom: 0x8a6b4a, shoes: 0x5a4a3a, acc: 'snuf', accColor: 0x7a8f4a },
     angler: { spot: [46, 22.5], face: [46, 18] },
     schedule: [[5, 'pond'], [17, 'park2'], [19, 'plaza2'], [21, 'pond']],
     lines: { morning: ['おはよう。朝の池は、水がきらきらしてるのさ。', 'まだ一匹も釣れてないけど、いい朝だな。'], day: ['釣れなくていいんだ。のんびりしに来てるだけさ。', 'あのアヒル、ぼくのことを見張ってるみたいだな。'], evening: ['夕方は風がやさしいな。そろそろ歩きたくなる。', '今日はどこまで行こうかな。気のむくままさ。'], night: ['夜の池は静かだな。星が水に映ってるのさ。'] },
-    menu: [{ label: '🎣 釣りへ行く', app: 'fishing' }, { label: 'ハーモニカをお願いする', act: 'harmonica' }],   // 入ると釣りのタイトル画面(英語・のんびり・勝負・図鑑…)
+    menu: [{ label: '🎣 釣りへ行く', app: 'fishing' }, { label: 'オカリナをお願いする', act: 'harmonica' }],   // 入ると釣りのタイトル画面(英語・のんびり・勝負・図鑑…)
   },
   {
     // 占い師ルナ:神社の境内の「占いの館」の前にいる。10コインで、住人の好物・飾りのレシピ・かくれもののありかなどを教えてくれる
@@ -292,7 +292,7 @@ export function createResidents(scene, graph, getHour, collide = null) {
           else if (speed > 0.3) r.ch.root.rotation.y = angleLerp(r.ch.root.rotation.y, Math.atan2(r.vx, r.vz), Math.min(1, dt * 4));
         }
         r.speed = speed;
-        // ポーズ:ハーモニカを吹いている間 / 池のそばで釣り竿を構えているとき
+        // ポーズ:オカリナを吹いている間 / 池のそばで釣り竿を構えているとき
         if (r.harpT > 0) r.harpT -= dt;
         if (r.def.angler) {
           const a = r.def.angler;

diff --git a/town3d/src/world/character.js b/town3d/src/world/character.js
@@ -84,7 +84,7 @@ export function makeCharacter(look, { scale = 1 } = {}) {
   if (look.acc === 'ribbon') { [-1, 1].forEach(s => { const r = add(geo('rib', () => new THREE.ConeGeometry(0.07, 0.14, 4)), M(look.accColor), 0.14 + s * 0.07, 0.2, 0.02, head); r.rotation.z = s * Math.PI / 2; }); add(sph(0.035, 8), M(look.accColor), 0.14, 0.2, 0.02, head); }
   if (look.acc === 'cap') { const c = add(geo('hat', () => new THREE.SphereGeometry(0.25, 24, 12, 0, Math.PI * 2, 0, 1.3)), toon(look.accColor, { side: THREE.DoubleSide }), 0, 0.06, -0.01, head); const v = add(cyl(0.16, 0.16, 0.025, 14), M(look.accColor), 0, 0.12, 0.2, head); v.scale.z = 0.7; }
   if (look.acc === 'tophat') { add(cyl(0.15, 0.15, 0.22, 14), M(look.accColor), 0, 0.3, 0, head); add(cyl(0.24, 0.24, 0.025, 16), M(look.accColor), 0, 0.2, 0, head); add(cyl(0.152, 0.152, 0.04, 14), M(0xff9aa2), 0, 0.23, 0, head); }
-  // 砂吹さんの帽子:つばの広い、くたっとした帽子に羽
+  // 潮見さんの帽子:つばの広い、くたっとした帽子に羽
   if (look.acc === 'snuf') {
     const hm = toon(look.accColor, { side: THREE.DoubleSide });
     add(cyl(0.31, 0.31, 0.02, 20), hm, 0, 0.17, 0, head);
@@ -118,7 +118,7 @@ export function makeCharacter(look, { scale = 1 } = {}) {
     if (outG.length) { const ol = new THREE.Mesh(mergeGeometries(outG.map(g => g.clone()), false), outlineMat); grp.add(ol); }
   };
   [body, head, ...legs, ...arms].forEach(bakeGroup);
-  // 砂吹さんの持ち物:釣り竿とハーモニカ(動かすので、合体させずにあとから付ける)
+  // 潮見さんの持ち物:釣り竿とオカリナ(動かすので、合体させずにあとから付ける)
   const snuf = look.acc === 'snuf';
   let fishG = null, harp = null;
   if (snuf) {
@@ -128,7 +128,7 @@ export function makeCharacter(look, { scale = 1 } = {}) {
     const lineG = new THREE.Group(); lineG.position.set(0, -1.24, 1.4); lineG.rotation.x = -2.24; fishG.add(lineG);
     add(cyl(0.004, 0.004, 1.3, 4), M(0xf5f5f5), 0, 0, 0, lineG);
     add(sph(0.04, 8), M(0xff6b6b), 0, -1.64, 0.89, fishG);
-    harp = add(geo('harp', () => new THREE.BoxGeometry(0.2, 0.045, 0.05)), M(0xc8ccd4), 0, -0.1, 0.235, head); harp.visible = false;
+    harp = add(geo('ocarina', () => { const g = new THREE.SphereGeometry(0.075, 12, 8); g.scale(1.35, 0.78, 0.85); return g; }), M(0xd49a6a), 0, -0.1, 0.235, head); harp.visible = false;
   }
   { const ol = new THREE.Mesh(torso.geometry, outlineMat); ol.position.copy(torso.position); ol.scale.copy(torso.scale); torso.userData.ol = ol; body.add(ol); }
   for (const e of eyes) { /* 目はまばたきするので別メッシュのまま */ }

diff --git a/town3d/src/apps/fishing/ask.js b/town3d/src/apps/fishing/ask.js
@@ -1,4 +1,4 @@
-// 砂吹さんに聞く:狙いの魚(いい組み合わせ)・いまのおすすめ・腕のアドバイス
+// 潮見さんに聞く:狙いの魚(いい組み合わせ)・いまのおすすめ・腕のアドバイス
 import { FISH, AREAS, TANA, GEAR, gearById, BAIT_EN, SPEED_JP, SPEED_EN, RARITY, RARITY_COL } from './data.js';
 import { weightOf, timeOf } from './engine.js';
 import { artCanvas } from './art.js';
@@ -36,12 +36,12 @@ export function askScreen(o) {
   const day = new Date().toDateString();
   const rumor = st.get('rumor') && st.get('rumor').day === day ? st.get('rumor') : { day, n: 0, seen: [] };
   let tab = o.tab || 'now';
-  const s = sheet(`<div class="ph"><h2>💬 砂吹さんに聞く</h2></div><div class="tabs"></div><div class="sc"></div><div style="padding:8px 16px 16px;text-align:center"><button class="btn sub" data-x>もどる</button></div>`);
+  const s = sheet(`<div class="ph"><h2>💬 潮見さんに聞く</h2></div><div class="tabs"></div><div class="sc"></div><div style="padding:8px 16px 16px;text-align:center"><button class="btn sub" data-x>もどる</button></div>`);
   const tabs = s.querySelector('.tabs'), sc = s.querySelector('.sc');
   const say = (en, jp) => `<div class="item" style="display:block"><b style="font-family:Georgia,serif">“${esc(en)}”</b><div style="font-size:13px;color:#8d7f9e">${esc(jp)}</div></div>`;
   const draw = () => {
     tabs.innerHTML = [['now', 'いまのおすすめ'], ['target', '狙いの魚'], ['skill', '腕のアドバイス']].map(([k, n]) => `<button class="tab ${k === tab ? 'on' : ''}" data-t="${k}">${n}</button>`).join('');
-    if (tab === 'skill') { sc.innerHTML = `<p style="font-size:13px">砂吹さん「最近の釣りを見てたけど…」</p>` + adviceFor(skill, eq).map(([e, j]) => say(e, j)).join(''); return; }
+    if (tab === 'skill') { sc.innerHTML = `<p style="font-size:13px">潮見さん「最近の釣りを見てたけど…」</p>` + adviceFor(skill, eq).map(([e, j]) => say(e, j)).join(''); return; }
     if (tab === 'now') {
       const tm = timeOf(cond.hour), list = FISH.filter(f => f.r >= 2).map(f => [f, weightOf(f, cond)]).filter(a => a[1] > 0);
       const pick = [];

diff --git a/town3d/src/core/ai.js b/town3d/src/core/ai.js
@@ -174,7 +174,7 @@ export function buildSystem({ npc, player, hourText, periodText, place, english 
     `あなたは、パステルカラーの小さな「かまってチャンクTOWN」に住む「${npc.name}」(${npc.role})です。町の住人としてだけ話します。`,
     `【性格・話し方】${npc.persona || '明るくやさしい。短い言葉で話す。'}`,
     `【いま】${periodText}、${hourText}。場所は${place}。話し相手は「${player}」さん。`,
-    ...(adult ? [] : ['【町のようす】広場に噴水、北に学校と図書館、南にゲームセンター(ぷにチャンク)・ショップ・カフェ(チャンク・カード)、東に公園、西に神社(おみくじ)。住人はミイ・ハッタリ男爵・ゴン・こはる先生・しおりさん・マルさん・ゆず・チャンクくん・大喜利チョコ・哲学者・砂吹さん(公園の池で釣りをしている)。']),
+    ...(adult ? [] : ['【町のようす】広場に噴水、北に学校と図書館、南にゲームセンター(ぷにチャンク)・ショップ・カフェ(チャンク・カード)、東に公園、西に神社(おみくじ)。住人はミイ・ハッタリ男爵・ゴン・こはる先生・しおりさん・マルさん・ゆず・チャンクくん・大喜利チョコ・哲学者・潮見さん(公園の池で釣りをしている)。']),
     '【ルール】',
     ...(english
       ? [

diff --git a/town3d/src/ui/social_ui.js b/town3d/src/ui/social_ui.js
@@ -84,7 +84,7 @@ export function createSocialUI({ hud, wallet, audio, addNote, onAllFound, startD
     if (u.id === 'bigfish') {
       social.markUsed(key); const rare = FISH.filter(f => f.kind === 'fish' && f.r >= 4), f = pick(rare);
       const tm = { day: '昼', night: '夜', morning: '朝', evening: '夕方', any: 'いつでも' }[f.time] || 'いつでも';
-      const t = `きょうは「${f.name}」が近くまで来てるかもな。${tm}に${f.rain ? '、雨の日に' : ''}ねらってみな。`; social.addInfo('大物', `${f.name}:${tm}${f.rain ? '・雨' : ''}(砂吹さん)`); say(t); return;
+      const t = `きょうは「${f.name}」が近くまで来てるかもな。${tm}に${f.rain ? '、雨の日に' : ''}ねらってみな。`; social.addInfo('大物', `${f.name}:${tm}${f.rain ? '・雨' : ''}(潮見さん)`); say(t); return;
     }
     if (u.id === 'book') { social.markUsed(key); const p = pick(PASSAGES); addNote({ kind: 'sentence', text: p[0], meaning: p[1], npc: 'しおりさん' }); say(`この一節が好きなんです。「${p[0].slice(0, 60)}…」 ノートに書いておきましたね。`); return; }
     if (u.id === 'lesson') { social.markUsed(key); const p = pick(PHRASES); addNote({ kind: 'phrase', text: p[0], meaning: p[1], npc: 'こはる先生' }); say(`きょうの表現は「${p[0]}」。意味は「${p[1]}」です。ノートに入れておきましたよ。`); return; }

diff --git a/town3d/src/apps/gamebox/games/launchers.js b/town3d/src/apps/gamebox/games/launchers.js
@@ -3,6 +3,6 @@ const go = what => ctx => { ctx.emit('launch', { what, from: ctx.params && ctx.p
 // 釣りの画面の「もどる」で、入ってきた施設(アミューズメントセンターなど)にもどる
 export const backOf = ctx => ({ id: ctx.appId, label: '← ' + (ctx.appId === 'amuse' ? 'センター' : 'ゲームボックス') + 'へ', params: { from: ctx.params && ctx.params.from } });
 export const snow3d = { id: 'snow3d', title: '雪合戦3D', icon: '🏔', desc: '町のどこかで2対2', launch: go('snow3d') };
-export const fishvs = { id: 'fishvs', title: '釣り対戦', icon: '🎣', desc: '砂吹さんの池で釣り勝負', launch: ctx => ctx.open('fishing', { vs: 'easy', any: 1, from: ctx.params && ctx.params.from, back: backOf(ctx) }) };
+export const fishvs = { id: 'fishvs', title: '釣り対戦', icon: '🎣', desc: '潮見さんの池で釣り勝負', launch: ctx => ctx.open('fishing', { vs: 'easy', any: 1, from: ctx.params && ctx.params.from, back: backOf(ctx) }) };
 export const golf = { id: 'golf', title: 'ミニゴルフ', icon: '⛳', desc: '町がコース。毎日かわる', launch: go('golf') };
 export const frisbee = { id: 'frisbee', title: 'フリスビー', icon: '🥏', desc: '町がコース。毎日かわる', launch: go('frisbee') };

diff --git a/town3d/src/game/social.js b/town3d/src/game/social.js
@@ -41,7 +41,7 @@ export const PREFS = {
   suna: { love: ['coffee', 'sandwich'], like: ['dango', 'cookie', 'croissant'], no: ['parfait'] },
   luna: { love: ['cupcake', 'matcha'], like: ['cake', 'cocoa', 'pudding'], no: ['donut'] },
 };
-export const NPC_NAME = { sora: 'そら君', hana: 'はなちゃん', mii: 'ミイ', baron: 'ハッタリ男爵', gon: 'ひろい屋ゴン', koharu: 'こはる先生', shiori: 'しおりさん', maru: 'マルさん', yuzu: 'ゆずちゃん', chunkkun: 'チャンクくん', choco: '大喜利チョコ', tetsu: '哲学者', suna: '砂吹さん', luna: '占い師ルナ' };
+export const NPC_NAME = { sora: 'そら君', hana: 'はなちゃん', mii: 'ミイ', baron: 'ハッタリ男爵', gon: 'ひろい屋ゴン', koharu: 'こはる先生', shiori: 'しおりさん', maru: 'マルさん', yuzu: 'ゆずちゃん', chunkkun: 'チャンクくん', choco: '大喜利チョコ', tetsu: '哲学者', suna: '潮見さん', luna: '占い師ルナ' };
 const KIDS = ['sora', 'yuzu', 'chunkkun'];   // デートの代わりに、お礼のプレゼント
 // いちばん好きなものは+12 / 好き+6 / ふつう+3 / にがて-3。1人に1日1回。その日はじめて話すと+1
 export const PTS = { love: 12, like: 6, normal: 3, no: -3, talk: 1 };

diff --git a/town3d/src/apps/fishing/engine.js b/town3d/src/apps/fishing/engine.js
@@ -1,4 +1,4 @@
-// 釣りのしくみ(画面とは別)。自分・砂吹さん(ボット)・記録の再生で同じものを使う。
+// 釣りのしくみ(画面とは別)。自分・潮見さん(ボット)・記録の再生で同じものを使う。
 //   池の座標:x = -1(左)〜1(右)、d = 0(手前の岸)〜1(むこう岸)。岸の自分は (0, 0)
 //   流れ:ready(ねらう) → charge(ためる) → fly(とんでいる) → water(水の中:待つ/巻く) → fight(ファイト) → landed / lost
 import { FISH, ITEMS, areasOf, areaAtIn, RARITY_PTS, gearById, TANA, HOOK_STEP, tanaOf } from './data.js';
@@ -397,7 +397,7 @@ export function replayAt(rec, t) {
   return { ...a, x: a.x + (b.x - a.x) * k, d: a.d + (b.d - a.d) * k, T: a.T + (b.T - a.T) * k };
 }
 
-// 砂吹さん(ボット)。lv: 'easy' | 'hard'
+// 潮見さん(ボット)。lv: 'easy' | 'hard'
 export function createBot(engine, lv = 'easy', seed = 3) {
   const r = rng(seed), E = engine, S = E.S;
   const K = lv === 'hard' ? { react: 0.24, sd: 0.08, aimErr: 0.03, early: 0.03, lo: 0.62, hi: 0.9, side: 0.85, wait: 14, lag: 0.22, idle: 1 } : { react: 0.5, sd: 0.22, aimErr: 0.1, early: 0.25, lo: 0.6, hi: 0.95, side: 0.4, wait: 20, lag: 0.45, idle: 3 };

diff --git a/town3d/src/apps/fishing/en.js b/town3d/src/apps/fishing/en.js
@@ -801,7 +801,7 @@ export function createEnglish({ root, ctx, sfx, sheet, artCanvas, FISHBY, toast,
   }
   function testIntro(onBack, after) {
     const sh = sheet(`<div class="ph"><h2>📝 抜き打ちテスト!</h2></div><div class="sc" style="font-size:14px;line-height:1.7">
-      <div class="say">砂吹さん「Pop quiz! 前に完璧にした単語、まだ覚えてるかな?」</div>
+      <div class="say">潮見さん「Pop quiz! 前に完璧にした単語、まだ覚えてるかな?」</div>
       <p>もらった標本のセットから、いくつかまとめて出すよ。1セットで${TEST_PER}問中${TEST_BAD}問以上まちがえると、その標本に<b>ひび</b>が入る。まちがえた単語は完璧が消えるので、釣り堀でもう一度完璧にすれば直る。</p>
       <p style="font-size:12px;color:#8d7f9e">自分の単語集の言葉も少し出るよ(標本には関係なし)。テストが終わるまで、英語の釣り堀は始められない。</p></div>
       <div style="padding:8px 16px 16px;display:flex;gap:8px;justify-content:center"><button class="btn sub" data-n>あとで</button><button class="btn" data-g>はじめる</button></div>`, true);
